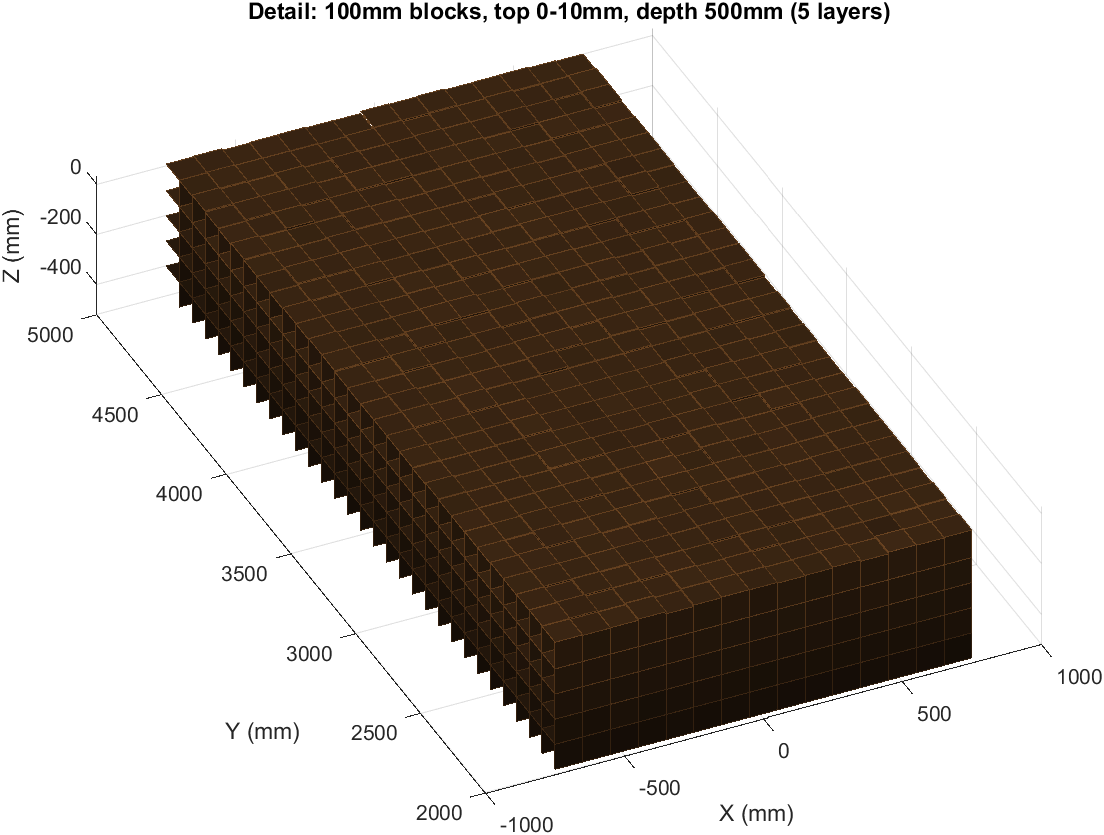
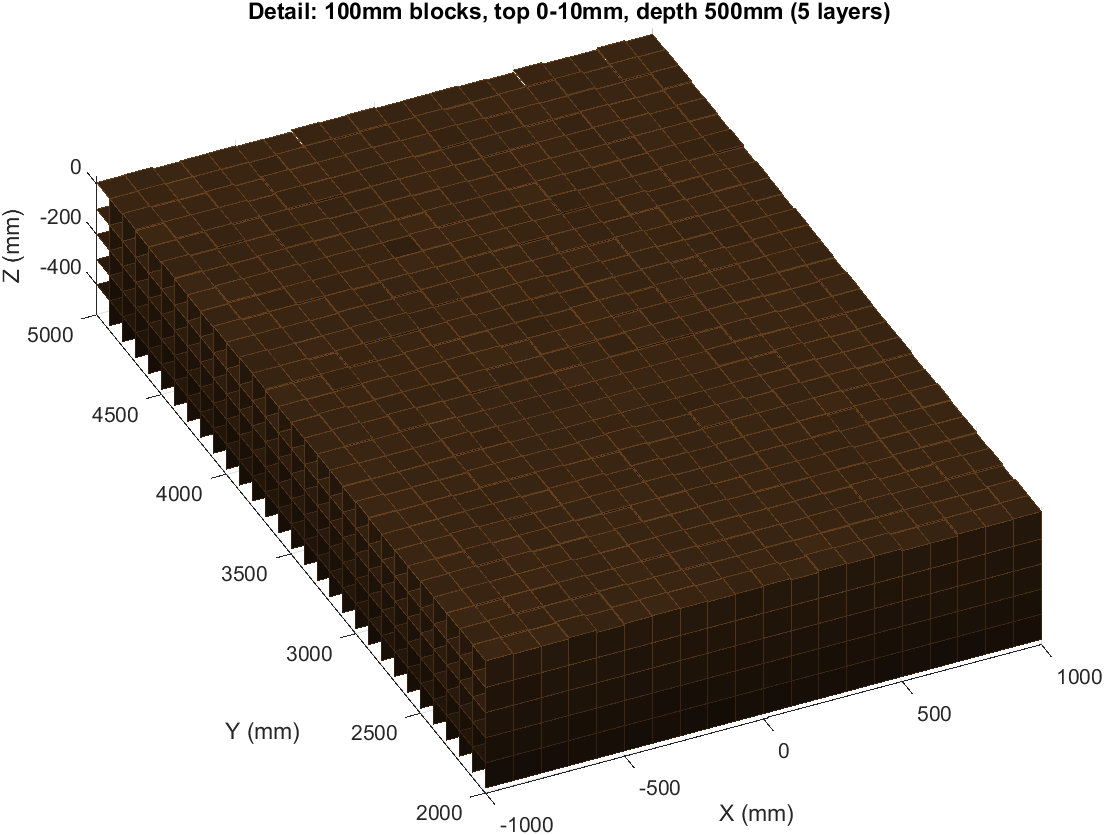
Adjusted figure title

Changed region(s): [[0.0924, 0.0311, 0.9547, 0.9653]]

diff --git a/BumpyTerrainAnalysis/QuickView_BumpyTerrain.m b/BumpyTerrainAnalysis/QuickView_BumpyTerrain.m
@@ -285,8 +285,11 @@ light('Position', [500 -5000 1000]);
 light('Position', [-500 15000 500], 'Style', 'local');
 
 xlabel('X (mm)'); ylabel('Y (mm)'); zlabel('Z (mm)');
-title(sprintf('Bumpy Terrain: 100mm chunks, surface 0-%dmm, depth %dmm, \\epsilon_r ±%d%%', ...
-    surface_z_max, total_depth, variation_pct));
+% title(sprintf('Bumpy Terrain: 100mm chunks, surface 0-%dmm, depth %dmm, \\epsilon_r ±%d%%', ...
+%    surface_z_max, total_depth, variation_pct));
+
+title(sprintf('RO4 - Burried Object Simulation with Uneven Terrain'));
+
 grid on;
 set(gca, 'Projection', 'orthographic');
 % view([azimuth, elevation]) in degrees: